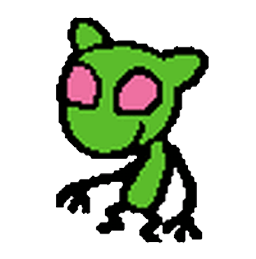
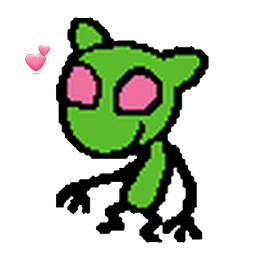
Made petting animation

Changed region(s): [[0.0938, 0.1544, 0.2188, 0.3089]]

diff --git a/index.js b/index.js
@@ -4,6 +4,21 @@ const CANVAS_HEIGHT = 256;
 let petCount = 0;
 let numberOfPets = 0;
 
+const calloutMessages = [
+    "Don't forget to feed your Tamagotchi!",
+    "Playtime is important!",
+    "Petting makes me happy!",
+    "Too many pets? Try deleting one!",
+    "Happiness fades with time...",
+    "Keep an eye on those stats!"
+];
+
+setInterval(() => {
+    const message = calloutMessages[Math.floor(Math.random() * calloutMessages.length)];
+    showCallout(message);
+}, 10000); // every 10 seconds
+
+
 window.addEventListener('DOMContentLoaded', () => {
     const speciesSelect = document.getElementById('species-select');
     Tamagotchi.speciesList.forEach(species => {
@@ -21,6 +36,20 @@ document.getElementById('add-btn').addEventListener('click', () => {
     addTamagotchi(species);
     petCount++;
 });
+
+function showCallout(message, duration = 3000) {
+    const callout = document.getElementById('callout');
+    callout.textContent = message;
+    callout.style.display = 'block';
+    callout.style.opacity = '1';
+
+    setTimeout(() => {
+        callout.style.opacity = '0';
+        setTimeout(() => {
+            callout.style.display = 'none';
+        }, 300);
+    }, duration);
+}
 
 function addTamagotchi(species) {
     const container = document.getElementById('container');

diff --git a/index.css b/index.css
@@ -110,3 +110,19 @@ canvas {
 .delete-btn:hover {
     background-color: #d32f2f;
 }
+
+.callout {
+    position: fixed;
+    top: 1rem;
+    left: 50%;
+    transform: translateX(-50%);
+    background: #fff8e1;
+    color: #333;
+    padding: 0.6rem 1rem;
+    border: 1px solid #ffecb3;
+    border-radius: 6px;
+    box-shadow: 0 0 6px rgba(0,0,0,0.1);
+    font-size: 1rem;
+    z-index: 1000;
+    transition: opacity 0.3s ease;
+}

diff --git a/index.html b/index.html
@@ -7,6 +7,7 @@
         <script src="tamagotchi.js" defer></script>
     </head>
     <body>
+    <div id="callout" class="callout" style="display: none;"></div>
     <div id="top-bar">
         <button id="add-btn">Add Tamagotchi</button>
         <select id="species-select"></select>
